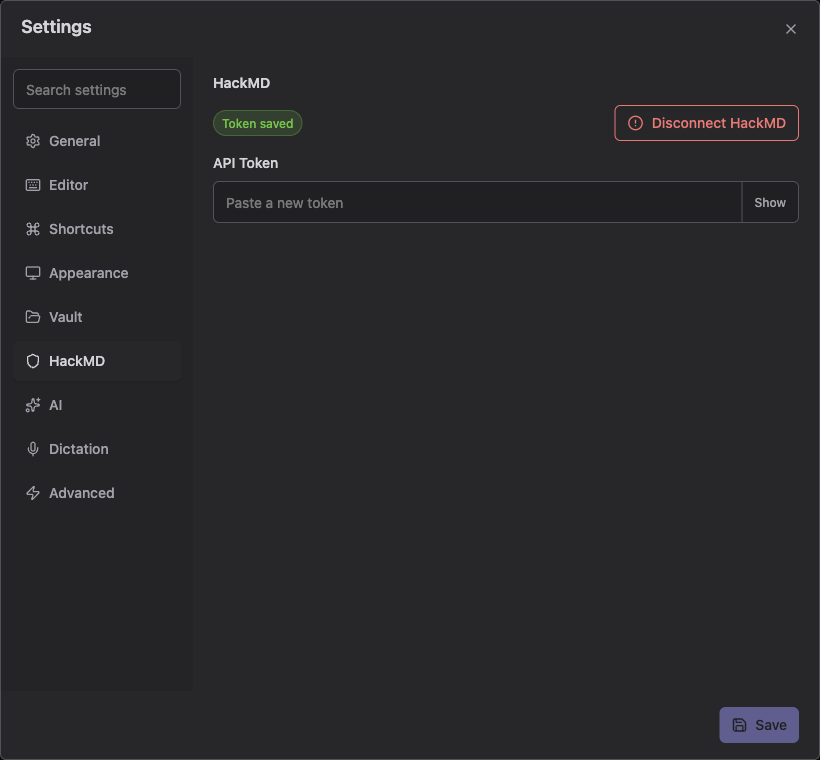
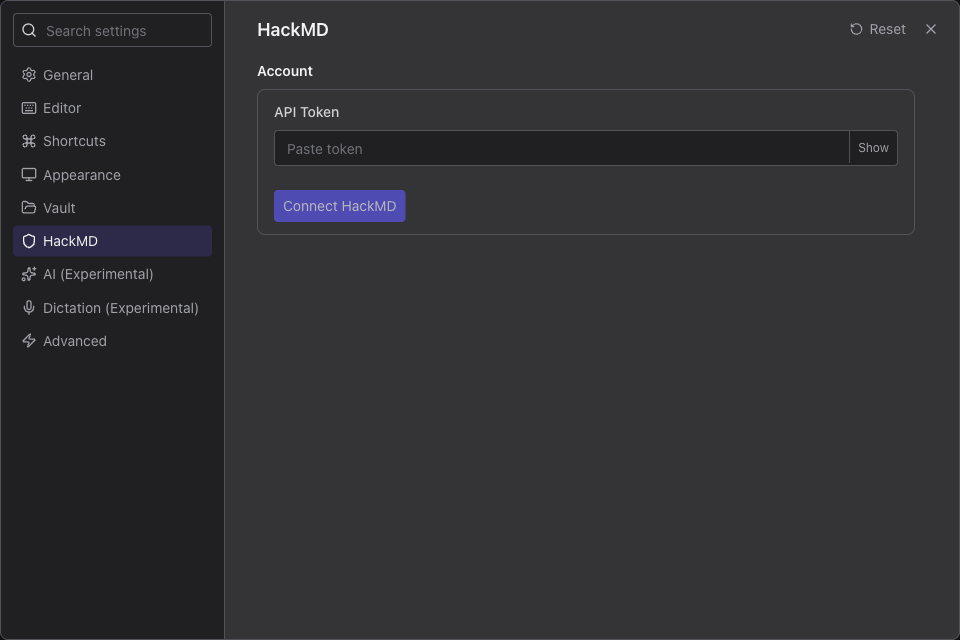
chore(release): prepare v2.0.0-beta.13 (#419)
* chore(release): prepare v2.0.0-beta.13

* docs: refresh beta.13 guides and app artwork

* docs: point account switching to HackMD settings

diff --git a/docs/.vitepress/config.ts b/docs/.vitepress/config.ts
@@ -19,7 +19,8 @@ export default defineConfig({
   description: DESCRIPTION,
 
   head: [
-    ['link', { rel: 'icon', type: 'image/png', href: '/logo.png' }],
+    ['link', { rel: 'icon', type: 'image/png', sizes: '32x32', href: '/favicon.png' }],
+    ['link', { rel: 'icon', type: 'image/svg+xml', href: '/favicon.svg' }],
     ['meta', { name: 'color-scheme', content: 'light dark' }],
     ['meta', { property: 'og:type', content: 'website' }],
     ['meta', { property: 'og:title', content: TITLE }],

diff --git a/docs/features.md b/docs/features.md
@@ -6,9 +6,9 @@ outline: deep
 
 Open notes in tabs, arrange them in panes, and save them to a Local Vault or HackMD. To connect a workspace, [get started](./intro.md).
 
-![Reading notes and a project plan open side by side in HackDesk](/editor.png)
+![Project plan and release checklist open in separate panes, beside two demonstration folders](/editor.png)
 
-*HackDesk beta.10 with demonstration notes.*
+*HackDesk beta.13 with demonstration notes.*
 
 ## Choose a workspace
 
@@ -40,13 +40,13 @@ Press **Cmd+P** / **Ctrl+P** for **Quick Open** to find notes, folders, and work
 
 Press **Cmd+T** / **Ctrl+T**, or choose **New Tab**, for an empty page with search and recent notes. In **Settings → Editor → New tab opens**, choose **Duplicate current note** to reuse the current note instead. Empty pages are not restored after restart.
 
-Drag a tab's icon or title to reorder it within its pane.
+Drag a tab's icon or title to reorder it, move it to another pane, or split at a pane's edge.
 
 1. Choose **Pane actions → Split Right** (**Cmd+\\** / **Ctrl+\\**) or **Split Down** (**Cmd+Shift+\\** / **Ctrl+Shift+\\**).
 2. Open a note in the new pane.
 3. Drag the divider to resize, or choose **Equalize Pane Sizes**.
 
-Split any pane again, up to six panes. The tab strip follows the active pane. Closing a pane's last tab removes that pane; closing the last tab in the workbench leaves it open.
+Split any pane again, up to six panes. Each pane has its own tab strip. Closing a pane's last tab removes that pane; closing the last tab in the workbench leaves it open.
 
 Choose **Zoom pane**, or press **Cmd+Shift+Enter** / **Ctrl+Shift+Enter**, to fill the editor area with one pane. Repeat to restore the layout. Use **Move Tab to Next Pane** to move a tab between panes.
 
@@ -81,7 +81,7 @@ In a Local Vault, link by relative path: `[Plan](./plan.md)`. In HackMD, use the
 
 Type `[text](` to pick a note, or `{%hackmd ` to pick an embed. When pasting a URL, choose **URL**, **Reference**, or **Preview**. Standalone embeds and previews appear as cards with an **Open** button.
 
-Known notes open in tabs; other links open in your browser. Resolving an unknown HackMD note makes an API request. **Note Details → Linked from** lists backlinks across the Local Vault or the HackMD notes you have opened.
+Known notes open in tabs; other links open in your browser. Resolving an unknown HackMD note makes an API request. **Note Details → Backlinks** lists backlinks across the Local Vault or the HackMD notes you have opened.
 
 For local images, use a path relative to the note, such as `![Diagram](./images/diagram.png)`. Paths must stay inside the vault. New drafts need to be saved before relative images can resolve.
 
@@ -103,20 +103,20 @@ HackMD tag fields also suggest existing tags. New code blocks and containers inc
 
 ## Read books
 
-A book note uses headings and bulleted links as its table of contents. HackMD books open with **Book contents** beside the editor. For another note, choose **Open as Book** from **More actions** or the Command Palette.
+A book note uses headings and bulleted links as its table of contents. Each open book has its own tab, with **Book contents** beside the editor. For another note, choose **Open as Book** from **More actions** or the Command Palette.
 
 Choose a chapter, or use **Previous Chapter** and **Next Chapter**. Chapters follow the same link rules as other notes. Edit the table of contents and save to update it. **Close book** hides the contents.
 
 ## Present slides
 
-Choose **Present** from **More actions**, the View menu, or the Command Palette. The presentation includes unsaved edits. Notes with `type: slide` also show Present in the toolbar.
+Choose **Present** from **More actions**, the View menu, or the Command Palette. Slides open in a separate window and include unsaved edits. Notes with `type: slide` also show Present in the toolbar.
 
 - Use `---` on its own line, with blank lines above and below, for a new slide; use `----` for a slide below. These separators also apply inside code blocks.
 - Start a line with `note:` for hidden speaker notes.
 - Use `<!-- .slide: ... -->` and `<!-- .element: ... -->` for slide and element attributes.
 - Set the theme, transition, and controls through `slideOptions` in front matter. Script-loading options are ignored.
 
-Arrow keys or Space advance, **O** opens the overview, and **Escape** exits. Math is supported; embeds and diagrams remain text. Themes use system fonts instead of remote web fonts.
+Arrow keys or Space advance, and **O** opens the overview. Press **F** for full screen. **Escape** leaves full screen, then closes the presentation window. Math is supported; embeds and diagrams remain text. Themes use system fonts instead of remote web fonts.
 
 ## Write with AI
 
@@ -145,6 +145,6 @@ A recording stops after five minutes. Speech recognition runs on your Mac; HackD
 
 Choose **Rename Note** from **More actions** or the Command Palette to change a saved note's title. In a Local Vault, this also renames the file.
 
-Open **Note Details** to view metadata and backlinks. HackMD notes also offer tags, permissions, and sharing controls. Press **Escape** to close the panel and return to the note.
+Open **Note Details** for comments and backlinks. For HackMD notes, choose **More actions → Note Settings…** for metadata, or **Share Note…** for permissions and links. Press **Escape** to close a dialog or the details panel and return to the note.
 
 For capture outside the main window, use [Quick Hack](./quick-hack.md). For themes, app icons, and editor modes, [customize HackDesk](./config.md).

diff --git a/docs/config.md b/docs/config.md
@@ -6,21 +6,23 @@ outline: deep
 
 Open **Settings** with **Cmd+,** on macOS or **Ctrl+,** on Windows/Linux.
 
+Changes save automatically. Use the reset control beside a section's title to restore its defaults.
+
 Use **Search settings** to find a field. For example, search `font` and choose **Editor font** to open Appearance and focus the input. Arrow keys move through results; Enter opens one. Searching does not save changes.
 
 ## Change appearance
 
 In **Settings → Appearance**, choose a theme, colors, fonts, and text sizes. Search the font picker for an installed font. Prose uses a proportional font by default; code stays monospace.
 
-Choose **Apply Theme** to keep the preview or **Cancel Preview** to restore the saved appearance. **Smooth text** controls font smoothing. **Indent guides** and **Status line** take effect immediately.
+Appearance changes take effect immediately. **Smooth text** controls font smoothing; **Indent guides** and **Status line** control editor details.
 
 ![Appearance settings with the HackMD Neo dark preset](/custom-settings.png)
 
-*HackDesk beta.10 with demonstration data.*
+*HackDesk beta.13 with demonstration data.*
 
 ## Choose an editor mode
 
-In **Settings → Editor**, choose Standard, Vim, Helix, Emacs, or experimental Kakoune, then **Save**.
+In **Settings → Editor**, choose Standard, Vim, Helix, Emacs, or experimental Kakoune.
 
 Under **New tab opens**, choose **Empty page** or **Duplicate current note**. This preference takes effect immediately.
 
@@ -30,7 +32,7 @@ Editor modes control text editing. [Workbench navigation](./keyboard-navigation.
 
 ## Change shortcuts
 
-In **Settings → Shortcuts**, find an action, record a shortcut, then **Save**. Use its reset control to restore the default. You can also disable `?`, `/`, and Space outside text editing.
+In **Settings → Shortcuts**, find an action and record a shortcut. Use its reset control to restore the default. You can also disable `?`, `/`, and Space outside text editing.
 
 The **Quick Hack** section holds Quick Hack's two shortcuts: **Open or close Quick Hack**, the global hotkey (**Ctrl+Alt+H** by default), and **Pin Quick Hack**, which works inside the popup. Record new keys the same way, or press Backspace while recording to turn one off. Both need Cmd, Ctrl or Alt, and they can't share keys with each other or with the popup's editor. The hotkey's row shows whether the system accepted it. See [Quick Hack](./quick-hack.md#change-the-global-shortcut).
 
@@ -40,9 +42,9 @@ In **Settings → General → Quick Hack**, turn on **Keep open after capture** 
 
 ## Manage HackMD and Local Vault
 
-Use **Settings → HackMD** to connect or disconnect an account. Disconnecting removes the saved token and offline HackMD copies; it does not delete remote notes.
+Use **Settings → HackMD** to connect an account. Choose **Connect another account** to add more, or **Switch** beside an existing account. Each account has its own saved token. Disconnecting removes the token and local offline copies; it does not delete remote notes.
 
-Use **Settings → Vault** to change or forget a vault. Forgetting keeps its files and saved workspace layout. Selecting it again restores its tabs and drafts.
+Use **Settings → Vault** to add or remove local folders and manage named workspaces. Removing a folder from HackDesk does not delete its Markdown files.
 
 ## Edit settings.json
 

diff --git a/CHANGELOG.md b/CHANGELOG.md
@@ -2,6 +2,32 @@
 
 All notable changes to this project will be documented in this file. See [standard-version](https://github.com/conventional-changelog/standard-version) for commit guidelines.
 
+## [2.0.0-beta.13](https://github.com/EastSun5566/hackdesk/compare/v2.0.0-beta.12...v2.0.0-beta.13) (2026-11-20)
+
+### Workspaces and panes
+
+* Open multiple windows and local Markdown folders. Save named workspaces to keep a set of folders together in the sidebar.
+* Connect multiple HackMD accounts and switch between them, with a separate saved token for each account.
+* Use tabs in each pane. Drag tabs between panes or to an edge to split the workbench.
+* Group folder-less HackMD notes by their first tag. Keep folder structure when sorting notes.
+* Use Note Settings for metadata, Share Note for permissions and links, and Note Details for comments and backlinks.
+
+### Writing and appearance
+
+* Pin Quick Hack to capture several ideas, use the shortcut again to close it, and choose custom shortcuts. Write highlighted Markdown with list continuation and formatting keys.
+* Improve code fences, line numbers, inline HTML, math, image sizing and containers. Collapse front matter and search from a floating Find in Note card.
+* Keep each book in its own tab and present slides in a separate window, with optional full screen.
+* Choose code syntax colors, window translucency and more app icon styles in Settings.
+* Save Settings changes automatically and reset individual sections to their defaults.
+* Reduce startup work, build large folder trees near the visible area, and reuse preview widgets while moving through long notes.
+
+### Fixes and beta notes
+
+* Track each note's save state independently. Keep editor focus after saving or closing a dialog, and cancel pending token checks when Settings closes.
+* Beta installers remain unsigned and use manual updates. Quit HackDesk before replacing it.
+* Local-folder settings migrate on first launch. Save your work and back up app data before downgrading; beta.12 cannot read the new multi-folder settings.
+* Chinese IME behavior in Helix and Kakoune still needs manual verification. Kakoune remains experimental.
+
 ## [2.0.0-beta.12](https://github.com/EastSun5566/hackdesk/compare/v2.0.0-beta.11...v2.0.0-beta.12) (2026-11-09)
 
 ### Workbench

diff --git a/docs/install.md b/docs/install.md
@@ -25,7 +25,7 @@ Download the v2 beta for your platform. Betas are unsigned and use manual update
 </template>
 <p v-else>No beta download is available in this listing. Check <a :href="data.releasesUrl" target="_blank" rel="noreferrer">GitHub Releases</a>.</p>
 
-These guides cover beta.12. Screenshots use beta.10 demonstration data. Main previews may differ.
+These guides cover beta.13. Screenshots identify the build used for each demonstration. Main previews may differ.
 
 ### macOS
 
@@ -38,6 +38,20 @@ xattr -dr com.apple.quarantine "/Applications/HackDesk.app"
 ```
 
 If macOS still blocks launch, try opening HackDesk once. Then open **System Settings → Privacy & Security → Open Anyway**, authenticate, and confirm **Open**.
+
+#### Download with GitHub CLI
+
+Install [GitHub CLI](https://cli.github.com/) and sign in with `gh auth login`, then download and extract the Apple silicon ZIP:
+
+```sh
+gh release download v2.0.0-beta.13 --repo EastSun5566/hackdesk \
+  --pattern 'HackDesk-2.0.0-beta.13-arm64.zip' --dir ./hackdesk-beta13
+ditto -x -k ./hackdesk-beta13/HackDesk-2.0.0-beta.13-arm64.zip ./hackdesk-beta13
+```
+
+For Intel Macs, replace `arm64` with `x64` in both commands. Quit HackDesk, then move the extracted `HackDesk.app` to Applications.
+
+Pass the beta tag explicitly. Downloads made by `gh` normally do not have the browser's quarantine attribute; the app is still unsigned. If macOS blocks launch, use the steps above.
 
 ### Windows
 
@@ -59,6 +73,8 @@ Save open notes, quit HackDesk, and download the next beta manually. V2 reuses t
 If upgrading from beta.4 or earlier, save all edits before closing the old version. Beta.4 cannot restore unsaved edits to existing notes after restart.
 
 Beta.10 uses a newer workspace layout. Older betas cannot restore its tabs, panes, or unsaved drafts. Save your work and back up your settings before downgrading.
+
+Beta.13 migrates local-folder settings to support multiple folders and workspaces. Beta.12 cannot read those settings. Back up app data before downgrading.
 
 V0.1.x does not update to v2 automatically. Install the v2 beta separately, following the platform steps above.
 

diff --git a/README.md b/README.md
@@ -23,11 +23,13 @@ Work with HackMD notes and local Markdown vaults.
 
 ## Install
 
-[Download HackDesk v2.0.0-beta.12](https://github.com/EastSun5566/hackdesk/releases/tag/v2.0.0-beta.12) for macOS, Windows, or Linux. On macOS, v2 requires macOS 13 or later. Beta builds are unsigned and use manual updates.
+[Download HackDesk v2.0.0-beta.13](https://github.com/EastSun5566/hackdesk/releases/tag/v2.0.0-beta.13) for macOS, Windows, or Linux. On macOS, v2 requires macOS 13 or later. Beta builds are unsigned and use manual updates.
 
-Save open notes before upgrading. Versions before beta.10 cannot restore newer tabs, panes, or unsaved drafts after a downgrade.
+Save open notes before upgrading. Back up app data before downgrading: beta.12 cannot read the new multi-folder settings, and versions before beta.10 cannot restore newer tabs, panes, or unsaved drafts.
 
 See the [installation guide](https://hackdesk.eastsun.me/install) for platform steps and the [code signing policy](docs/code-signing-policy.md) for signing status.
+
+Prefer the terminal? [Download the macOS beta with GitHub CLI](https://hackdesk.eastsun.me/install#download-with-github-cli).
 
 ### Main previews
 
@@ -46,7 +48,7 @@ xattr -dr com.apple.quarantine "/Applications/HackDesk.app"
 
 [Get started](docs/intro.md) · [Work with notes](docs/features.md) · [Quick Hack](docs/quick-hack.md) · [Keyboard navigation](docs/keyboard-navigation.md) · [Customize HackDesk](docs/config.md)
 
-The [documentation website](https://hackdesk.eastsun.me) covers beta.12. Screenshots use demonstration data from beta.10.
+The [documentation website](https://hackdesk.eastsun.me) covers beta.13. Screenshots identify the build used for each demonstration.
 
 ## Contributing
 

diff --git a/docs/intro.md b/docs/intro.md
@@ -20,7 +20,7 @@ Your other initial drafts move into the same workspace but remain unsaved. Cance
 
 A Local Vault is a folder of Markdown files. No account is required.
 
-1. Choose **Local Vault** when saving your first draft, or **Settings → Vault → Change Vault**.
+1. Choose **Local Vault** when saving your first draft, or **Add local folder** in the workspace switcher.
 2. Select a Markdown folder or an empty folder.
 3. Select a note in the sidebar to open it.
 
@@ -30,14 +30,14 @@ Each vault keeps its own tabs and recoverable drafts. Opening a vault does not u
 
 1. Create an API token in [HackMD settings](https://hackmd.io/settings#api).
 2. Open **Settings → HackMD**.
-3. Paste the token into **API Token** and choose **Save**.
+3. Paste the token into **API Token** and choose **Connect HackMD**.
 4. Open the workspace switcher at the top of the sidebar. Choose **My Workspace** or a team.
 
 HackDesk validates the token and encrypts it with the operating system. Do not include it in shared screenshots or configuration files.
 
 ![HackMD settings with an empty API Token field](/api-integration.png)
 
-*HackDesk beta.10. Demonstration data; no token is shown.*
+*HackDesk beta.13. Demonstration data; no token is shown.*
 
 ## Create and save a note
 

diff --git a/docs/keyboard-navigation.md b/docs/keyboard-navigation.md
@@ -12,7 +12,7 @@ Press **Space** outside text editing, or **Cmd+J** / **Ctrl+J** anywhere, to ope
 
 ![Leader menu showing command groups and their keys](/leader-menu.png)
 
-*HackDesk beta.10 with demonstration notes.*
+*HackDesk beta.13 with demonstration notes.*
 
 | Key | Group | Examples |
 | --- | --- | --- |
@@ -74,7 +74,7 @@ Hold **Cmd** on macOS or **Ctrl** on Windows/Linux to show shortcuts and codes f
 
 ![Keyboard hints over the sidebar, note tabs, and editor controls](/keyboard-navigation.png)
 
-*HackDesk beta.10. Codes depend on visible targets and available keys.*
+*HackDesk beta.13. Codes depend on visible targets and available keys.*
 
 Notes, folders, tabs, and workspaces navigate directly. Other buttons receive focus; press Enter to act. Backspace removes a prefix, Escape cancels, and releasing the modifier clears hints.
 

diff --git a/docs/quick-hack.md b/docs/quick-hack.md
@@ -19,7 +19,7 @@ Open a Local Vault or connect HackMD and select a personal or team workspace bef
 
 ![Quick Hack popup with a fictional idea in highlighted Markdown, the pin at the bottom left and the Capture button](/quick-hack.png)
 
-*A HackDesk build after beta.12, with demonstration text.*
+*HackDesk beta.13 with demonstration text.*
 
 From another app, successful capture closes the popup without bringing the main workbench forward. From HackDesk, it returns to the main window. To capture several ideas in a row, [pin the popup](#keep-the-popup-open).
 

diff --git a/docs/index.md b/docs/index.md
@@ -25,6 +25,6 @@ Open a [Local Vault or HackMD account](./intro.md), [arrange your notes](./featu
 
 ![HackDesk showing demonstration notes in split panes](/editor.png)
 
-*HackDesk beta.10 with demonstration notes.*
+*HackDesk beta.13 with demonstration notes.*
 
 [Code signing policy](./code-signing-policy.md)
